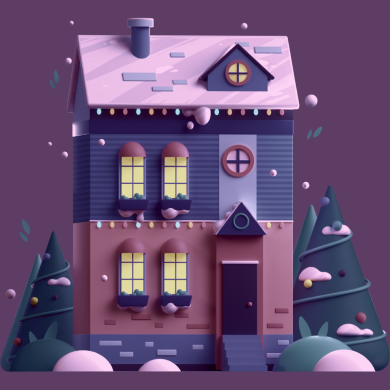
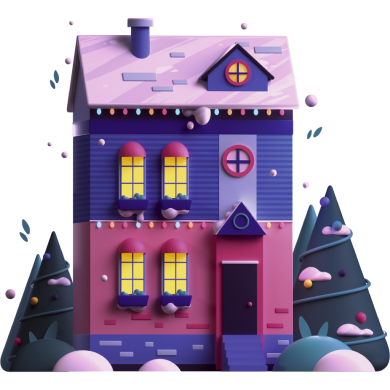
add image House

diff --git a/lib/page/MyHomePage.dart b/lib/page/MyHomePage.dart
@@ -28,10 +28,17 @@ class MyHomePage extends StatelessWidget {
               ),
             ),
             WeatherState(screanHeight: screanHeight),
+            Positioned(
+              top: screanHeight * 0.32,
+              child: Container(
+                width: 390,
+                height: 390,
+                child: Image.asset('asstes/House.png'),
+              ),
+            )
           ],
         ),
       ),
     );
   }
 }
-
